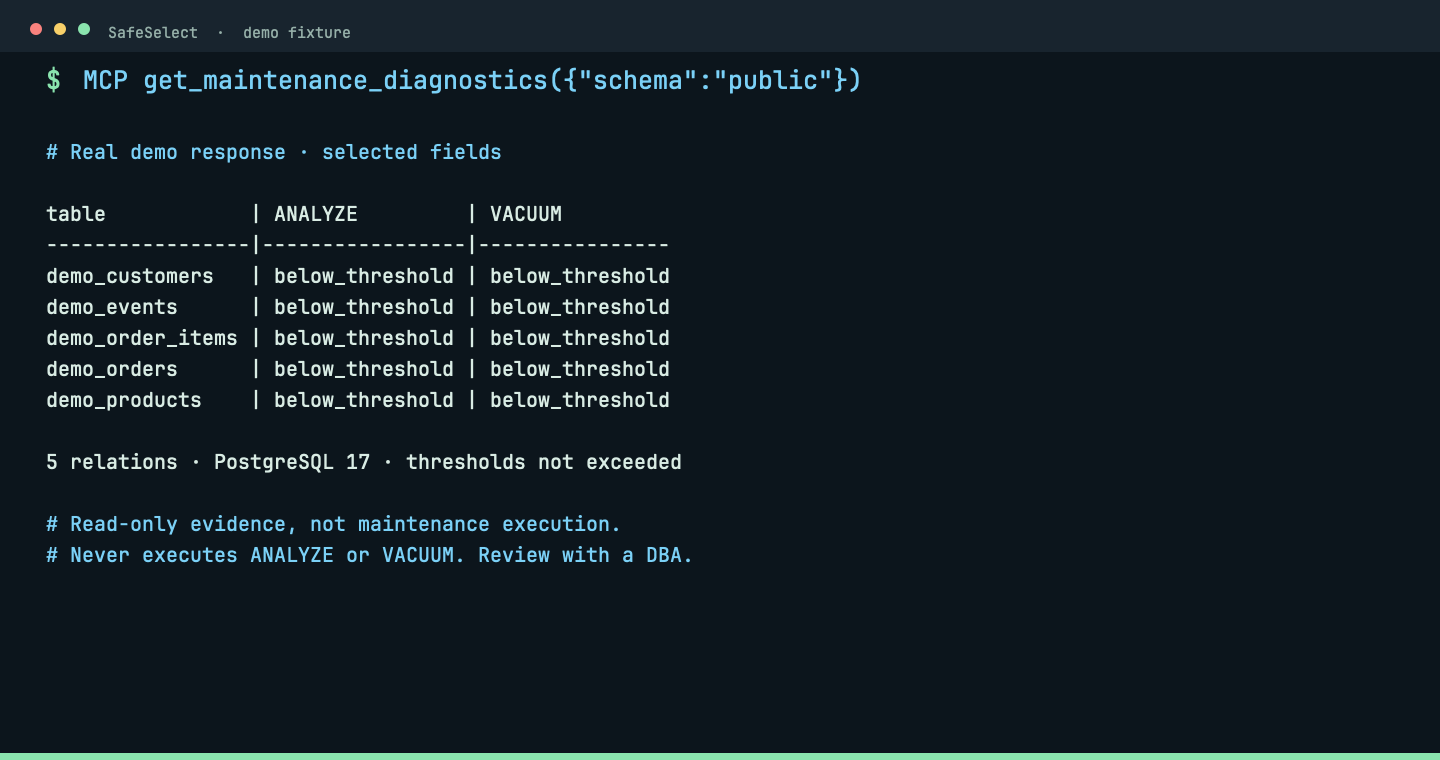
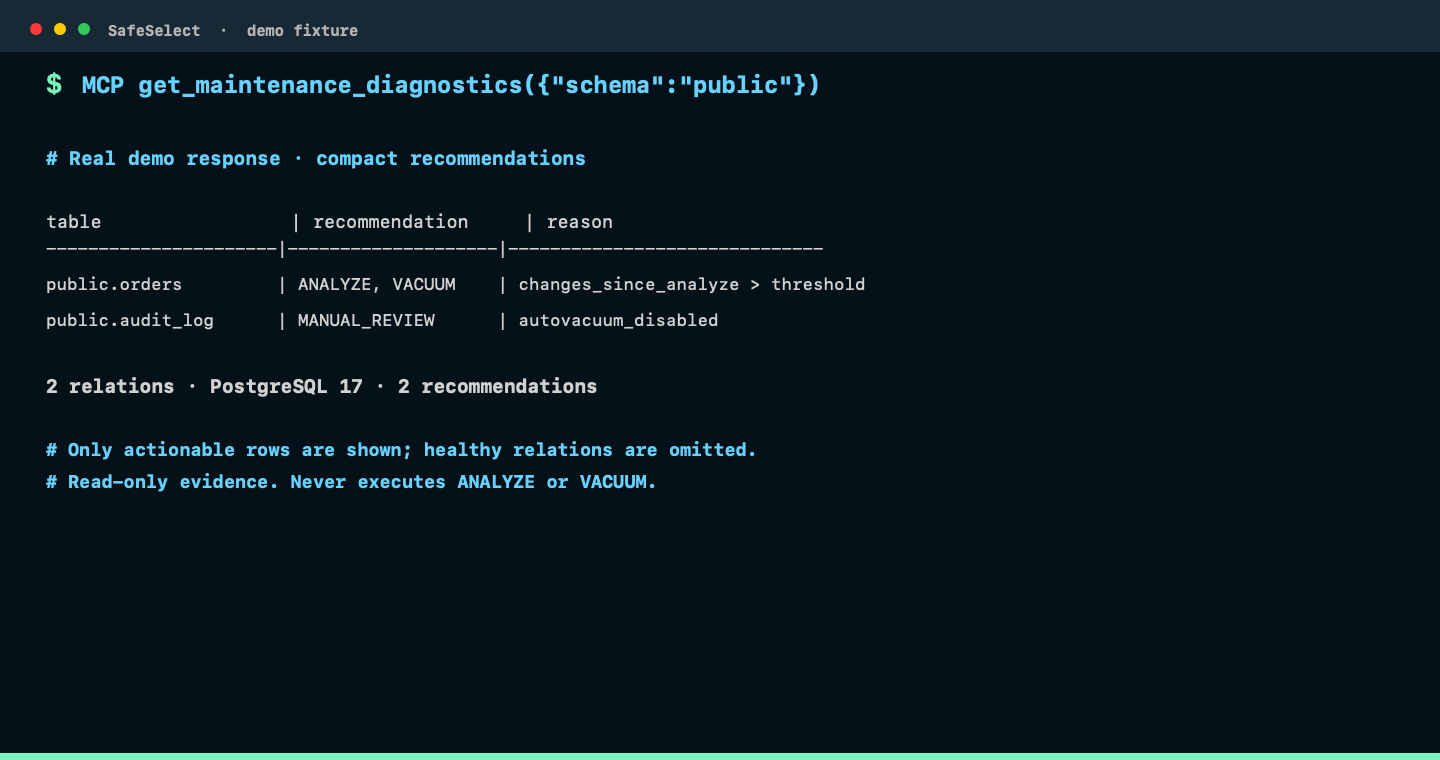
feat(mcp): return compact maintenance recommendations (#257)
* feat(mcp): return compact maintenance recommendations

* fix(mcp): preserve maintenance uncertainty

* docs(cli): refresh maintenance diagnostics capture

* docs(cli): align maintenance table capture

* fix(manifest): refresh generated maintenance metadata

diff --git a/src/maintenance.rs b/src/maintenance.rs
@@ -369,13 +369,99 @@ pub fn empty_payload(server_version_num: i64) -> Option<serde_json::Value> {
     }
     Some(serde_json::json!({
         "server_version_num": server_version_num,
-        "diagnostics": [],
+        "recommendations": [],
         "summary": {
-            "relations": 0,
+            "relations_evaluated": 0,
+            "total_relations": 0,
             "truncated": false,
-            "analyze": {"threshold_exceeded": 0, "below_threshold": 0, "unknown": 0, "not_applicable": 0},
-            "vacuum": {"threshold_exceeded": 0, "below_threshold": 0, "unknown": 0, "not_applicable": 0}
+            "recommendations": 0,
+            "analyze_due": 0,
+            "vacuum_due": 0,
+            "manual_review": 0,
+            "no_action_required": 0
         }
+    }))
+}
+
+fn recommendation_reason(metric: &MaintenanceMetric) -> String {
+    match (metric.observed, metric.threshold) {
+        (Some(observed), Some(threshold)) => {
+            let operator = if matches!(metric.reason, "transaction_age" | "multixact_age") {
+                ">="
+            } else {
+                ">"
+            };
+            format!("{}: {observed} {operator} {threshold}", metric.reason)
+        }
+        _ => metric.reason.into(),
+    }
+}
+
+fn needs_manual_review(item: &MaintenanceDiagnostic) -> bool {
+    item.analyze.status == "unknown" || item.vacuum.status == "unknown" || !item.warnings.is_empty()
+}
+
+fn append_metric_recommendation(
+    actions: &mut Vec<&'static str>,
+    reasons: &mut Vec<String>,
+    due: bool,
+    action: &'static str,
+    metric: &MaintenanceMetric,
+) {
+    if due {
+        actions.push(action);
+        reasons.push(recommendation_reason(metric));
+    }
+}
+
+fn append_manual_review(
+    actions: &mut Vec<&'static str>,
+    reasons: &mut Vec<String>,
+    item: &MaintenanceDiagnostic,
+) {
+    actions.push("MANUAL_REVIEW");
+    if item.analyze.status == "unknown" {
+        reasons.push(format!("ANALYZE: {}", item.analyze.reason));
+    }
+    if item.vacuum.status == "unknown" {
+        reasons.push(format!("VACUUM: {}", item.vacuum.reason));
+    }
+    reasons.extend(item.warnings.iter().map(|warning| (*warning).into()));
+}
+
+fn recommendation(item: &MaintenanceDiagnostic) -> Option<serde_json::Value> {
+    let analyze_due = item.analyze.status == "threshold_exceeded";
+    let vacuum_due = item.vacuum.status == "threshold_exceeded";
+    let manual_review = needs_manual_review(item);
+    if !analyze_due && !vacuum_due && !manual_review {
+        return None;
+    }
+
+    let mut actions = Vec::new();
+    let mut reasons = Vec::new();
+    append_metric_recommendation(
+        &mut actions,
+        &mut reasons,
+        analyze_due,
+        "ANALYZE",
+        &item.analyze,
+    );
+    append_metric_recommendation(
+        &mut actions,
+        &mut reasons,
+        vacuum_due,
+        "VACUUM",
+        &item.vacuum,
+    );
+    if manual_review {
+        append_manual_review(&mut actions, &mut reasons, item);
+    }
+    Some(serde_json::json!({
+        "schema": item.schema,
+        "table": item.table,
+        "relation_type": item.relation_type,
+        "recommendation": actions.join(", "),
+        "reason": reasons.join("; ")
     }))
 }
 
@@ -389,28 +475,42 @@ pub fn payload_from_query(result: &QueryResult) -> Option<serde_json::Value> {
         return None;
     }
     let (items, truncated) = diagnostics_from_query(result);
-    let status_count = |metric: fn(&MaintenanceDiagnostic) -> &MaintenanceMetric, status: &str| {
-        items
-            .iter()
-            .filter(|item| metric(item).status == status)
-            .count()
-    };
-    let summary = |metric: fn(&MaintenanceDiagnostic) -> &MaintenanceMetric| {
-        serde_json::json!({
-            "threshold_exceeded": status_count(metric, "threshold_exceeded"),
-            "below_threshold": status_count(metric, "below_threshold"),
-            "unknown": status_count(metric, "unknown"),
-            "not_applicable": status_count(metric, "not_applicable")
+    let total_relations = result
+        .rows
+        .first()
+        .and_then(|row| number(row, 24))
+        .filter(|value| value.is_finite() && *value >= 0.0)
+        .map(|value| value as u64)
+        .unwrap_or(result.rows.len() as u64);
+    let analyze_due = items
+        .iter()
+        .filter(|item| item.analyze.status == "threshold_exceeded")
+        .count();
+    let vacuum_due = items
+        .iter()
+        .filter(|item| item.vacuum.status == "threshold_exceeded")
+        .count();
+    let recommendations: Vec<_> = items.iter().filter_map(recommendation).collect();
+    let manual_review = recommendations
+        .iter()
+        .filter(|item| {
+            item["recommendation"]
+                .as_str()
+                .is_some_and(|action| action.contains("MANUAL_REVIEW"))
         })
-    };
+        .count();
     Some(serde_json::json!({
         "server_version_num": version,
-        "diagnostics": items,
+        "recommendations": recommendations,
         "summary": {
-            "relations": result.rows.len(),
+            "relations_evaluated": result.rows.len(),
+            "total_relations": total_relations,
             "truncated": truncated,
-            "analyze": summary(|item| &item.analyze),
-            "vacuum": summary(|item| &item.vacuum)
+            "recommendations": recommendations.len(),
+            "analyze_due": analyze_due,
+            "vacuum_due": vacuum_due,
+            "manual_review": manual_review,
+            "no_action_required": items.len().saturating_sub(recommendations.len())
         }
     }))
 }
@@ -777,7 +877,7 @@ mod tests {
     }
 
     #[test]
-    fn payload_contains_diagnostics_and_summary_for_supported_version() {
+    fn payload_contains_compact_recommendations_and_summary_for_supported_version() {
         let result = QueryResult {
             columns: vec![],
             rows: vec![row("r", Some(151.0), Some(251.0))],
@@ -788,9 +888,82 @@ mod tests {
         };
         let payload = payload_from_query(&result).expect("supported PostgreSQL version");
         assert_eq!(payload["server_version_num"], 170000);
-        assert_eq!(payload["summary"]["relations"], 1);
-        assert_eq!(payload["summary"]["analyze"]["threshold_exceeded"], 1);
-        assert_eq!(payload["summary"]["vacuum"]["threshold_exceeded"], 1);
+        assert_eq!(payload["summary"]["relations_evaluated"], 1);
+        assert_eq!(payload["summary"]["total_relations"], 1);
+        assert_eq!(payload["summary"]["analyze_due"], 1);
+        assert_eq!(payload["summary"]["vacuum_due"], 1);
+        assert_eq!(
+            payload["recommendations"][0]["recommendation"],
+            "ANALYZE, VACUUM"
+        );
+        assert!(payload["recommendations"][0]["reason"]
+            .as_str()
+            .is_some_and(|reason| reason.contains("changes_since_analyze")));
+        assert!(payload["recommendations"][0].get("last_analyze").is_none());
+    }
+
+    #[test]
+    fn payload_omits_relations_without_an_actionable_recommendation() {
+        let mut healthy = row("r", Some(1.0), Some(1.0));
+        healthy[2] = serde_json::json!("healthy");
+        let mut needs_review = row("r", Some(1.0), Some(1.0));
+        needs_review[2] = serde_json::json!("autovacuum_off");
+        needs_review[12] = serde_json::json!(false);
+        let result = QueryResult {
+            columns: vec![],
+            rows: vec![healthy, needs_review],
+            row_count: 2,
+            byte_count: 0,
+            elapsed_ms: 0,
+            elapsed: String::new(),
+        };
+
+        let payload = payload_from_query(&result).expect("supported PostgreSQL version");
+        assert_eq!(payload["recommendations"].as_array().map(Vec::len), Some(1));
+        assert_eq!(payload["recommendations"][0]["table"], "autovacuum_off");
+        assert_eq!(
+            payload["recommendations"][0]["recommendation"],
+            "MANUAL_REVIEW"
+        );
+        assert_eq!(payload["summary"]["no_action_required"], 1);
+    }
+
+    #[test]
+    fn payload_preserves_manual_review_with_other_actions() {
+        let mut values = row("r", Some(151.0), Some(251.0));
+        values[6] = serde_json::Value::Null;
+        values[12] = serde_json::json!(false);
+        let result = QueryResult {
+            columns: vec![],
+            rows: vec![values],
+            row_count: 1,
+            byte_count: 0,
+            elapsed_ms: 0,
+            elapsed: String::new(),
+        };
+
+        let payload = payload_from_query(&result).expect("supported PostgreSQL version");
+        assert_eq!(
+            payload["recommendations"][0]["recommendation"],
+            "ANALYZE, MANUAL_REVIEW"
+        );
+        let reason = payload["recommendations"][0]["reason"].as_str().unwrap();
+        assert!(reason.contains("VACUUM: statistics_unavailable"));
+        assert!(reason.contains("autovacuum_disabled"));
+    }
+
+    #[test]
+    fn recommendation_reason_uses_inclusive_age_operator() {
+        let metric = MaintenanceMetric {
+            status: "threshold_exceeded",
+            reason: "transaction_age",
+            observed: Some(100.0),
+            threshold: Some(100.0),
+        };
+        assert_eq!(
+            recommendation_reason(&metric),
+            "transaction_age: 100 >= 100"
+        );
     }
 
     #[test]
@@ -815,6 +988,6 @@ mod tests {
     fn empty_supported_payload_preserves_server_version() {
         let payload = empty_payload(160000).expect("supported version");
         assert_eq!(payload["server_version_num"], 160000);
-        assert_eq!(payload["summary"]["relations"], 0);
+        assert_eq!(payload["summary"]["relations_evaluated"], 0);
     }
 }

diff --git a/tests/security_suite/real_postgres.rs b/tests/security_suite/real_postgres.rs
@@ -78,7 +78,7 @@ pub fn run() {
             "maintenance diagnostics MCP server failed: {stderr}"
         );
         let value = &diagnostics["result"]["structuredContent"]["untrusted_data"]["value"];
-        let probe = value["diagnostics"]
+        let probe = value["recommendations"]
             .as_array()
             .and_then(|rows| {
                 rows.iter()
@@ -86,34 +86,31 @@ pub fn run() {
             })
             .unwrap_or_else(|| {
                 panic!(
-                    "maintenance probe must be present in diagnostics: {value}; raw={diagnostics}; stderr={stderr}"
+                    "maintenance probe must be present in recommendations: {value}; raw={diagnostics}; stderr={stderr}"
                 )
             });
-        let insert_probe = value["diagnostics"]
+        let insert_probe = value["recommendations"]
             .as_array()
             .unwrap()
             .iter()
             .find(|row| row["table"] == "aaa_insert_probe")
             .expect("insert probe must be present");
-        assert_eq!(insert_probe["vacuum"]["status"], "threshold_exceeded");
-        assert_eq!(insert_probe["vacuum"]["reason"], "inserts_since_vacuum");
-        assert_eq!(insert_probe["vacuum"]["threshold"], 10.0);
-        assert_eq!(insert_probe["dead_rows"], 0.0);
-        assert!(probe["xid_age"].as_f64().is_some());
-        assert!(probe["multixact_age"].as_f64().is_some());
-        assert!(probe["freeze_max_age"].as_f64().unwrap() > 0.0);
-        assert!(probe["multixact_freeze_max_age"].as_f64().unwrap() > 0.0);
-        assert_eq!(probe["analyze"]["status"], "threshold_exceeded");
-        assert_eq!(probe["vacuum"]["status"], "threshold_exceeded");
-        assert_eq!(
-            probe["vacuum"]["threshold"].as_f64(),
-            Some(if server_version_num >= 180000 {
-                10.0
-            } else {
-                70.0
-            })
+        assert!(insert_probe["recommendation"]
+            .as_str()
+            .is_some_and(|recommendation| recommendation.contains("VACUUM")));
+        assert!(insert_probe["reason"]
+            .as_str()
+            .is_some_and(|reason| reason.contains("inserts_since_vacuum")));
+        let recommendation = probe["recommendation"].as_str().unwrap();
+        assert!(recommendation.contains("ANALYZE"));
+        assert!(recommendation.contains("VACUUM"));
+        assert!(recommendation.contains("MANUAL_REVIEW"));
+        assert!(
+            value["summary"]["relations_evaluated"]
+                .as_u64()
+                .unwrap_or(0)
+                >= 1
         );
-        assert!(value["summary"]["relations"].as_u64().unwrap_or(0) >= 1);
         assert!(!diagnostics.to_string().contains("VACUUM ANALYZE"));
         postgres::psql(
             &postgres::test_db(),

diff --git a/src/mcp.rs b/src/mcp.rs
@@ -758,7 +758,7 @@ impl McpServer {
         if self.backend.has(BackendCapability::MaintenanceDiagnostics) {
             tools.push(ToolDefinition {
                 name: "get_maintenance_diagnostics".into(),
-                description: self.tool_description("use whenever the user asks which PostgreSQL tables need ANALYZE or VACUUM (for example, ‘qué tablas necesitan analyze o vacuum?’), whether statistics are stale, or which relations need maintenance; diagnose from bounded catalog statistics; read-only and never executes maintenance; optionally restrict to one exact allowed schema"),
+                description: self.tool_description("use whenever the user asks which PostgreSQL tables need ANALYZE or VACUUM (for example, ‘qué tablas necesitan analyze o vacuum?’), whether statistics are stale, or which relations need maintenance; returns a compact recommendation table containing only actions or manual-review cases, plus counts; diagnose from bounded catalog statistics; read-only and never executes maintenance; optionally restrict to one exact allowed schema"),
                 input_schema: serde_json::json!({
                     "type": "object",
                     "properties": {"schema": {"type": "string", "description": "Optional exact allowed schema name"}},
@@ -2712,7 +2712,7 @@ impl McpServer {
         self.write_response(&data_tool_response(
             id,
             &payload,
-            "Review the evidence with a DBA; this diagnostic never executes ANALYZE or VACUUM.",
+            "Report the compact recommendation table. Do not run EXPLAIN unless the user specifically asks to investigate query performance; this diagnostic never executes ANALYZE or VACUUM.",
         )?)
     }
 

diff --git a/docs/agents.md b/docs/agents.md
@@ -234,8 +234,9 @@ arbitrary SQL. After statistics, inspect the specific schema or indexes; do not
 start an unbounded data read solely because statistics are available.
 
 `get_maintenance_diagnostics` aggregates bounded PostgreSQL catalog statistics to
-flag possible ANALYZE or VACUUM threshold exceedances. It reports evidence and
-unknown states, never executes maintenance, and does not claim to measure bloat,
+flag possible ANALYZE or VACUUM threshold exceedances. It returns a compact
+recommendation table and counts, including manual-review cases for unknown states;
+it never executes maintenance and does not claim to measure bloat,
 locks, wraparound risk, or overall database health. The diagnostic supports
 PostgreSQL 15, 16, 17, and 18.
 

diff --git a/README.md b/README.md
@@ -599,7 +599,7 @@ get_maintenance_diagnostics({"schema":"public"})
 
 ![Inspect ANALYZE and VACUUM signals without running maintenance.](docs/recordings/cli/get_maintenance_diagnostics.png)
 
-Real MCP response excerpt: all five fixture tables are below maintenance thresholds. This read-only diagnostic never executes ANALYZE or VACUUM; review the evidence with a DBA.
+Real MCP response: a compact table containing only relations with an ANALYZE, VACUUM, or manual-review recommendation, plus summary counts. This read-only diagnostic never executes maintenance.
 
 </details>
 
